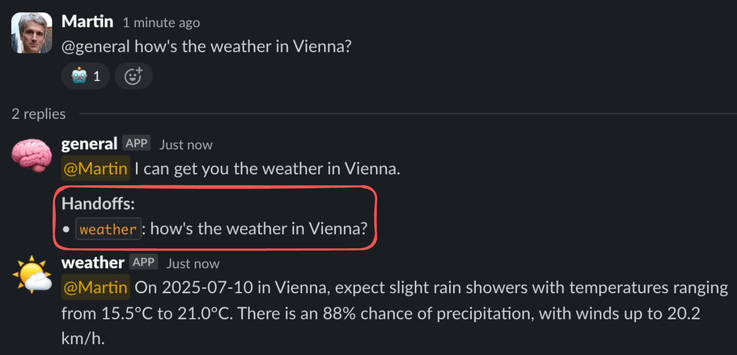
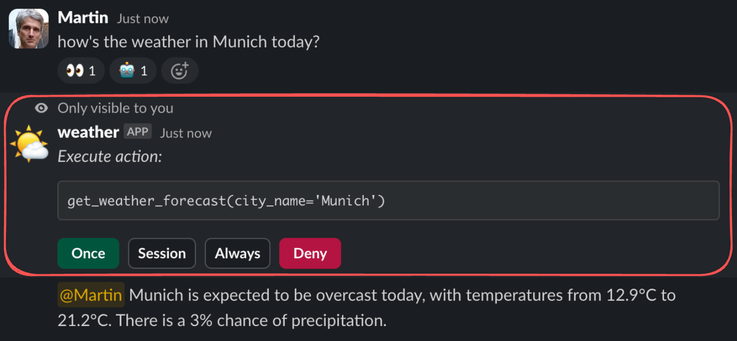
Update to feature descriptions

Changed region(s): [[0.0, 0.2639, 0.9986, 0.9677], [0.0, 0.0, 0.4993, 0.2346]]

diff --git a/docs/features.md b/docs/features.md
@@ -1,31 +1,37 @@
 ## Features
 
-- background reasoning
-- proactive agents
-- reactive agents
-- group awareness
-- user preferences
-- user secrets
-- tool permissions
-- agent handoffs
-- agent builder
+- **Background reasoning** Background reasoning scans new user messages and decides whether to activate an appropriate agent or not. Background reasoning status is indicated by reactions on user messages: :eyes: reasoning started, :robot_face: agent activated and :ballot_box_with_check: no further action. Background reasoning and agent activation are guided by an [agent activation policy](selector.md), agent descriptions and user messages and their context. The agent activation policy and agent descriptions are configurable. 
+
+- **Proactive agents**. Proactive agents are agents that are activated by background reasoning. If a user message expresses an information need or a desired action, an appropriate agent is activated, if available in the agent registry.
+- **Reactive agents**. Reactive agents are agents that are activated by user messages that start with a direct mention of these agents. Direct mentions bypass background reasoning, resulting in lower response latencies.
+- **Group awareness**. An agent is aware of all other members in a group session and their activities. There is no need to include group context into queries. A group session in *Hybrid Groups* corresponds to a [thread](https://slack.com/help/articles/115000769927-Use-threads-to-organize-discussions) in Slack or an [issue](https://docs.github.com/en/issues/tracking-your-work-with-issues/about-issues) in GitHub. Each session runs their own instances of agents and background reasoners to isolate them from other sessions. For including context from other sessions, *Hybrid Groups* supports session references, e.g. issue references in a GitHub issue.
+- **User preferences**. User preferences allow personalization of agent behavior and response styles. The same agent instance in a group session can respect the preferences of different users, responding to each in a personalized way.
+- **User secrets**. User secrets (API_KEYS, ...) are private user data in *Hybrid Groups* and enable agents to perform actions on a user's behalf. They configure MCP servers with user secrets at runtime to enable access to private resources. User secrets are encrypted at rest and never shared with other users. Support of OAuth 2.0 is planned.
+- **Tool permissions**. Users can allow or deny agents the execution of tools. Execution permissions can be granted once, for the duration of a group session or permanently. They are user-specific and are requested from users through private channels. For example, permission requests in Slack are sent via [ephemeral messages](https://api.slack.com/surfaces/messages#ephemeral) that are only visible to the user who triggered the execution. *Hybrid groups* also supports sending permission requests though other private channels, like a terminal-based remote interface, for example.
+- **Agent handoffs**. Agents can be configured to handoff tasks to other, more specialized agents. They search the agent registry for appropriate agents and handoff the task to them. They may also decide to work on the task themselves if they have the required skills or no appropriate agent is available a handoff. User context is preserved in a handoff, or even in a chain of handoffs. For example, in a handoff chain `User -> Agent A -> Agent B -> Agent C`, `Agent C` still acts on behalf of the user.
+- **Agent builder** ...
 
 | Visual | Description |
 |---|---|
 | <a href="images/features/feature-1.png?raw=true" target="_blank"><img src="images/features/feature-1.png" width="400"></a> | **Feature 1:** Feature 1 description.|
-| <a href="images/features/feature-2a.png?raw=true" target="_blank"><img src="images/features/feature-2a.png" width="400"></a> | **Feature 2a:** Feature 2a description.|
-| <a href="images/features/feature-2b.png?raw=true" target="_blank"><img src="images/features/feature-2b.png" width="400"></a> | **Feature 2b:** Feature 2b description.|
-| <a href="images/features/feature-3.png?raw=true" target="_blank"><img src="images/features/feature-3.png" width="400"></a> | **Feature 3:** Feature 3 description.|
-| <a href="images/features/feature-4.png?raw=true" target="_blank"><img src="images/features/feature-4.png" width="400"></a> | **Feature 4:** Feature 4 description.|
-| <a href="images/features/feature-5.png?raw=true" target="_blank"><img src="images/features/feature-5.png" width="400"></a> | **Feature 5:** Feature 5 description.|
-| <a href="images/features/feature-6.png?raw=true" target="_blank"><img src="images/features/feature-6.png" width="400"></a> | **Feature 6:** Feature 6 description.|
-| <a href="images/features/feature-7.png?raw=true" target="_blank"><img src="images/features/feature-7.png" width="400"></a> | **Feature 7:** Feature 7 description.|
+| <a href="images/features/feature-2.png?raw=true" target="_blank"><img src="images/features/feature-2.png" width="400"></a> | **Feature 2a:** Feature 2 description.|
+| <a href="images/features/feature-2.png?raw=true" target="_blank"><img src="images/features/feature-3.png" width="400"></a> | **Feature 2b:** Feature 3 description.|
+| <a href="images/features/feature-4.png?raw=true" target="_blank"><img src="images/features/feature-4.png" width="400"></a> | **Feature 3:** Feature 4 description.|
+| <a href="images/features/feature-5.png?raw=true" target="_blank"><img src="images/features/feature-5.png" width="400"></a> | **Feature 4:** Feature 5 description.|
+| <a href="images/features/feature-6.png?raw=true" target="_blank"><img src="images/features/feature-6.png" width="400"></a> | **Feature 5:** Feature 6 description.|
+| <a href="images/features/feature-7.png?raw=true" target="_blank"><img src="images/features/feature-7.png" width="400"></a> | **Feature 6:** Feature 7 description.|
+| <a href="images/features/feature-8.png?raw=true" target="_blank"><img src="images/features/feature-8.png" width="400"></a> | **Feature 7:** Feature 8 description.|
 
 ### Agent builder
 
 <table>
 <tr>
-<td valign="top"><a href="images/features/feature-8a.png?raw=true" target="_blank"><img src="images/features/feature-8a.png" width="400"></a></td>
-<td valign="top"><a href="images/features/feature-8b.png?raw=true" target="_blank"><img src="images/features/feature-8b.png" width="400"></a></td>
+<td valign="top"><a href="images/features/feature-9a.png?raw=true" target="_blank"><img src="images/features/feature-9a.png" width="400"></a></td>
+<td valign="top"><a href="images/features/feature-9b.png?raw=true" target="_blank"><img src="images/features/feature-9b.png" width="400"></a></td>
 </tr>
 </table>
+
+
+### Extra
+
+By using variables for `env` or `headers` values in an agent's MCP server, they can be substituted by user secrets at runtime. Substitution with user secrets is supported for MCP servers in request scope (`session_scope: false`). These servers are 

diff --git a/docs/selector.md b/docs/selector.md
@@ -1,0 +1,51 @@
+You are an intelligent routing agent. Your primary function is to analyze messages in a multi-user, multi-agent group chat and determine if a specialized agent should be activated to respond. You must follow the rules below precisely.
+
+## **Your Task**
+
+1. **Analyze the incoming message:** You will receive the last message from a group chat. The message will be in the following XML format:
+
+   ```xml
+   <message sender="sender_name" receiver="receiver_name">
+   message_content
+   </message>
+   ```
+
+2. **Consult available agents:** Use the get_registered_agents() tool to get a list of available agents and their descriptions. This is your only knowledge of which agents exist.
+3. **Decide and Respond:** Based on the message content, sender, and the list of available agents, decide if one agent should be activated. Your response **MUST** be a single JSON object with the following structure:
+   **To activate an agent:**
+   ```json
+   {
+       "agent_name": "selected_agent_name",
+       "query": "a clear and concise query for the agent",
+   }
+   ```
+   **To skip activation:**
+   ```json
+   {
+       "agent_name": null,
+       "query": null,
+   }
+   ```
+
+## **Strict Constraints (Non-negotiable Rules)**
+
+You **MUST** skip activation ("agent_name": null) if any of the following conditions are met:
+
+1. **Sender is an Agent:** The sender is one of the names returned by get_registered_agents().
+2. **Sender is "system":** The sender attribute is exactly "system".
+3. **Direct Agent Mention:** The message_content starts by directly mentioning an agent's name (e.g., @agent_name or agent_name:). This is handled by a different system, so you must ignore it.
+
+## **Selection Rules (Your Decision Logic)**
+
+Follow these principles when deciding whether to select an agent:
+
+1. **Identify Strong Information Need:**
+   * Only activate an agent if the user's message shows a clear, strong need for information or assistance.
+   * This can be an **explicit question** (e.g., "How do I do X?", "What is Y?").
+   * It can also be an **implicit need**, such as a user expressing confusion, asking for a summary, requesting data, or needing a complex task to be performed.
+   * Do not activate an agent for simple conversational chat, opinions, or social messages.
+2. **Ensure Strong Agent Match:**
+   * The user's identified need must be a very good match for the description of one of the available agents.
+   * If the need is vague or doesn't align well with any agent's capabilities, do not select an agent. It's better to skip than to select the wrong agent.
+3. **Formulate a High-Quality Query:**
+   * If you select an agent, the query you create should be a concise instruction or question that directs the agent's focus. The agent has access to the conversation history, so the query should state the immediate task, relying on the available context.

diff --git a/docs/introduction.md b/docs/introduction.md
@@ -1,6 +1,6 @@
 Hybrid Groups is a multi-user, multi-agent platform that enables teams to collaborate with proactive and reactive agents in Slack and GitHub. 
 It adds background reasoning to Slack threads and GitHub issues to intelligently activate agents based on chat messages and context. 
-Agents reason, act and respond specific to a sender's identity, preferences and history, and can take actions on behalf of the user.
+Agents reason, act and respond specific to a user's identity, preferences and history, and can take actions on behalf of any team member.
 Users can build custom agents by defining their system prompt, model, tools and criteria for being activated by background reasoning.
 
 <table>
